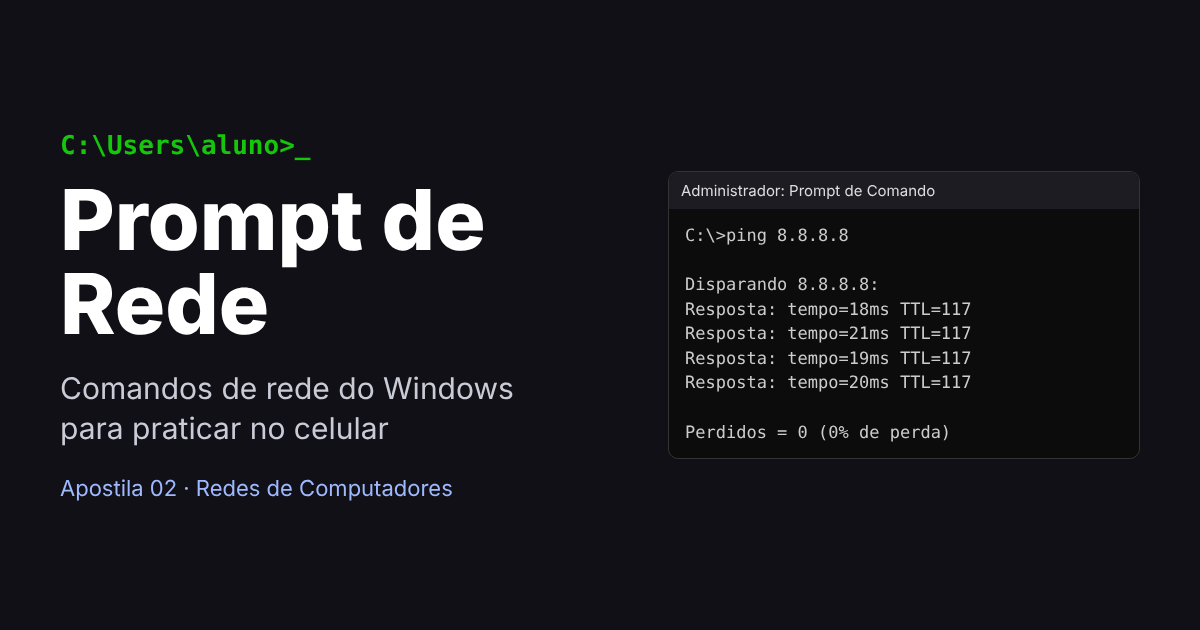
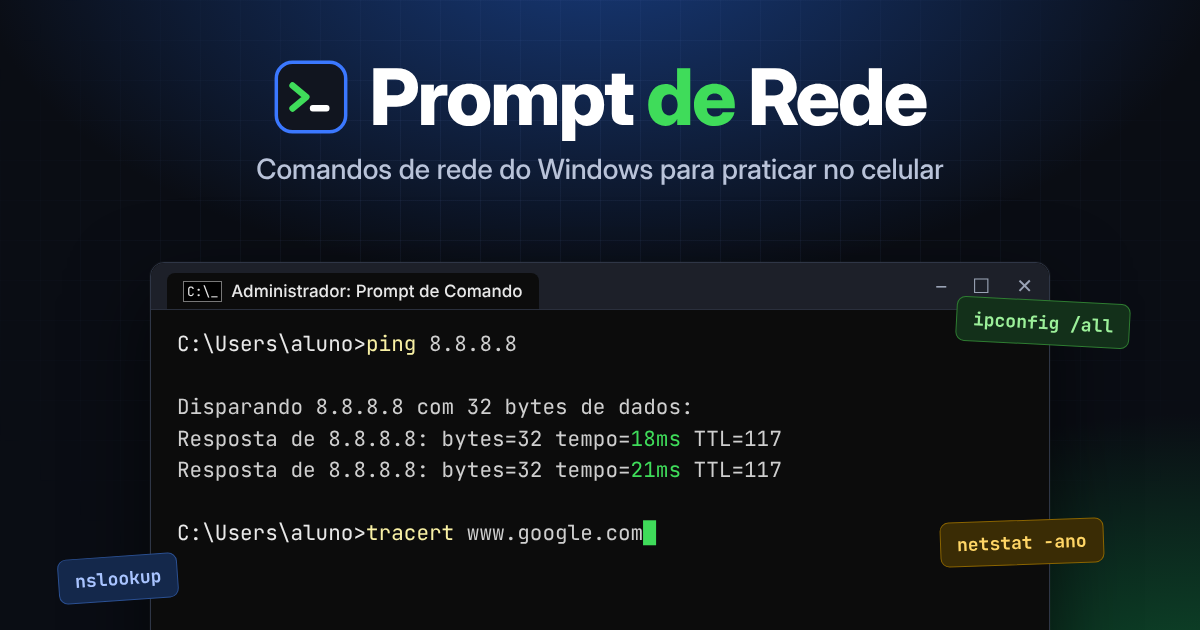
Melhora o ícone e a prévia de compartilhamento
Nova imagem de prévia (1200x630) para WhatsApp e redes sociais, novo
ícone em vários tamanhos, manifesto para instalar na tela inicial e
metadados Open Graph e Twitter completos.

Claude-Session: https://claude.ai/code/session_01XJBwB4CqybDn6um21HHjWn

diff --git a/index.html b/index.html
@@ -4,27 +4,36 @@
 <meta charset="UTF-8">
 <meta name="viewport" content="width=device-width, initial-scale=1, viewport-fit=cover, interactive-widget=resizes-content">
 <meta name="theme-color" content="#1c1c22">
-<meta name="description" content="Simulador do Prompt de Comando do Windows para celular: pratique os comandos de rede da Apostila 02 (ipconfig, ping, tracert, nslookup, netstat, arp, route e mais) e resolva chamados de suporte.">
+<meta name="description" content="Simulador do Prompt de Comando do Windows para praticar comandos de rede no celular: ipconfig, ping, tracert, nslookup, netstat, arp, route e chamados de suporte para diagnosticar.">
 <meta name="author" content="Vinícius Ramos">
+<meta name="application-name" content="Prompt de Rede">
+<meta name="mobile-web-app-capable" content="yes">
 <meta name="apple-mobile-web-app-capable" content="yes">
+<meta name="apple-mobile-web-app-status-bar-style" content="black-translucent">
 <meta name="apple-mobile-web-app-title" content="Prompt de Rede">
-<link rel="icon" type="image/png" href="favicon.png">
-<link rel="apple-touch-icon" href="apple-touch-icon.png">
+<link rel="canonical" href="https://viniciusframos0.github.io/prompt-de-rede/">
+<link rel="icon" type="image/png" sizes="64x64" href="favicon.png">
+<link rel="icon" type="image/png" sizes="192x192" href="icon-192.png">
+<link rel="apple-touch-icon" sizes="180x180" href="apple-touch-icon.png">
+<link rel="manifest" href="manifest.webmanifest">
 <meta property="og:type" content="website">
 <meta property="og:locale" content="pt_BR">
 <meta property="og:site_name" content="Prompt de Rede">
-<meta property="og:title" content="Prompt de Rede: laboratório de comandos de rede no celular">
-<meta property="og:description" content="ipconfig, ping, tracert, nslookup, netstat, arp, route e chamados de suporte para diagnosticar. Funciona em qualquer celular.">
+<meta property="og:title" content="Prompt de Rede: comandos de rede do Windows no celular">
+<meta property="og:description" content="Pratique ipconfig, ping, tracert, nslookup, netstat e muito mais, e resolva chamados de suporte. Funciona em qualquer celular, até sem internet.">
 <meta property="og:url" content="https://viniciusframos0.github.io/prompt-de-rede/">
 <meta property="og:image" content="https://viniciusframos0.github.io/prompt-de-rede/og-image.png">
 <meta property="og:image:secure_url" content="https://viniciusframos0.github.io/prompt-de-rede/og-image.png">
 <meta property="og:image:type" content="image/png">
 <meta property="og:image:width" content="1200">
 <meta property="og:image:height" content="630">
-<meta property="og:image:alt" content="Janela do Prompt de Comando com o resultado de um ping">
+<meta property="og:image:alt" content="Logotipo do Prompt de Rede sobre uma janela do Prompt de Comando com o resultado de um ping">
 <meta name="twitter:card" content="summary_large_image">
+<meta name="twitter:title" content="Prompt de Rede: comandos de rede do Windows no celular">
+<meta name="twitter:description" content="Pratique ipconfig, ping, tracert, nslookup, netstat e muito mais, e resolva chamados de suporte.">
 <meta name="twitter:image" content="https://viniciusframos0.github.io/prompt-de-rede/og-image.png">
-<title>Prompt de Rede ETEMB</title>
+<meta name="twitter:image:alt" content="Logotipo do Prompt de Rede sobre uma janela do Prompt de Comando">
+<title>Prompt de Rede</title>
 <style>
 :root{
   /* Layout: janela única do CMD — barra de título, status, terminal, atalhos e teclas fixas embaixo */

diff --git a/README.md b/README.md
@@ -1,5 +1,7 @@
 # Prompt de Rede
 
+![Prompt de Rede](og-image.png)
+
 Simulador do Prompt de Comando do Windows para praticar comandos de rede no celular, em sala de aula. Acompanha a **Apostila 02 – Comandos de Rede e Diagnóstico** (Redes de Computadores II, ETEMB).
 
 **Abrir:** https://viniciusframos0.github.io/prompt-de-rede/
